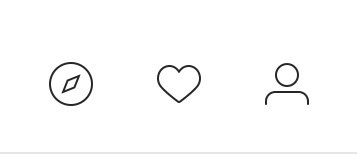
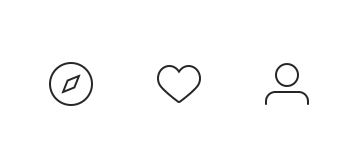
hey it doesn't look like absolute shit anymore!

diff --git a/instagram/src/App.js b/instagram/src/App.js
@@ -13,14 +13,15 @@ class App extends Component {
       value: undefined
     }
   }
-  componentDidMount(){
-    console.log("hey there what the hell is going on")
-    //this is asynchronous so this allows for rerendering with new data
-    //but it's only asynchronous depending on the rendering context. 
-    this.setState = {
-      value: true
-    }
-  }
+  // componentDidMount(){
+  //   console.log("hey there what the hell is going on")
+  //   //this is asynchronous so this allows for rerendering with new data
+  //   //but it's only asynchronous depending on the rendering context.
+  //   this.setState = {
+  //     value: true,
+  // posts: dummyData
+  //   }
+  // }
   render() {
     return (
       <div className="container">

diff --git a/instagram/src/components/SearchBar/SearchBar.js b/instagram/src/components/SearchBar/SearchBar.js
@@ -5,14 +5,14 @@ import  igicons from "../../assets/igicons.png";
 
     const SearchBar  = (props) => {
       return(
-        <nav className="navbar navbar-expand-lg navbar-light bg-light">
+        <nav className="navbar navbar-expand-lg navbar-light ">
           <img alt="instagram logo" src={iglogo} className="logo" />
 
 
           <div className="row" id="navbarSupportedContent">
             <form className="form-inline my-2 my-lg-0">
               <input className="form-control mr-sm-2" type="search" placeholder="Search" aria-label="Search"></input>
-              
+
             </form>
           <img alt="instagram icons" src={igicons} className="icons" />
           </div>

diff --git a/instagram/src/components/PostContainer/PostBody.js b/instagram/src/components/PostContainer/PostBody.js
@@ -9,16 +9,17 @@ import {
 
 const PostBody = props => {
   return (
-    <Card className="col">
-      <CardBody>
+    <Card >
       <PostTop  username={props.post.username} thumbnailUrl={props.post.thumbnailUrl} />
-      <div className="pbody">
         <img alt="thumbnail"  className="pimage"  src={props.post.imageUrl} />
+      <CardBody>
+
+      <div className="pbody">
+
         <img alt="like comment icons"  className="likecons"  src={like} />
         <div className="likes">{props.post.likes} likes</div>
       </div>
-    <div className="row">
-      </div>
+
 
       <CommentSection comments={props.post.comments} />
     </CardBody>

diff --git a/instagram/src/components/PostContainer/PostContainer.css b/instagram/src/components/PostContainer/PostContainer.css
@@ -3,13 +3,13 @@
 }
 .pimage{
   height: auto;
- width: 105%
+ width: 100%
 }
 
 .post-thumb{
   height: 30px;
    border-radius: 50%;
-   margin: 5px 20px 5px 5px;
+   margin: 10px 20px 5px 30px;
 }
 
 .likes{
@@ -19,7 +19,7 @@
 
 .username{
   font-weight: bold;
-  margin: 10px 0 0 0;
+  margin: 17px 0 0 -8px;
 }
 
 .posttop{

diff --git a/instagram/src/components/SearchBar/SearchBar.css b/instagram/src/components/SearchBar/SearchBar.css
@@ -1,5 +1,5 @@
 .icons{
-  margin: 0 0 10px 60px;
+  margin: 0 0 10px 50px;
 }
 
 .logo{
